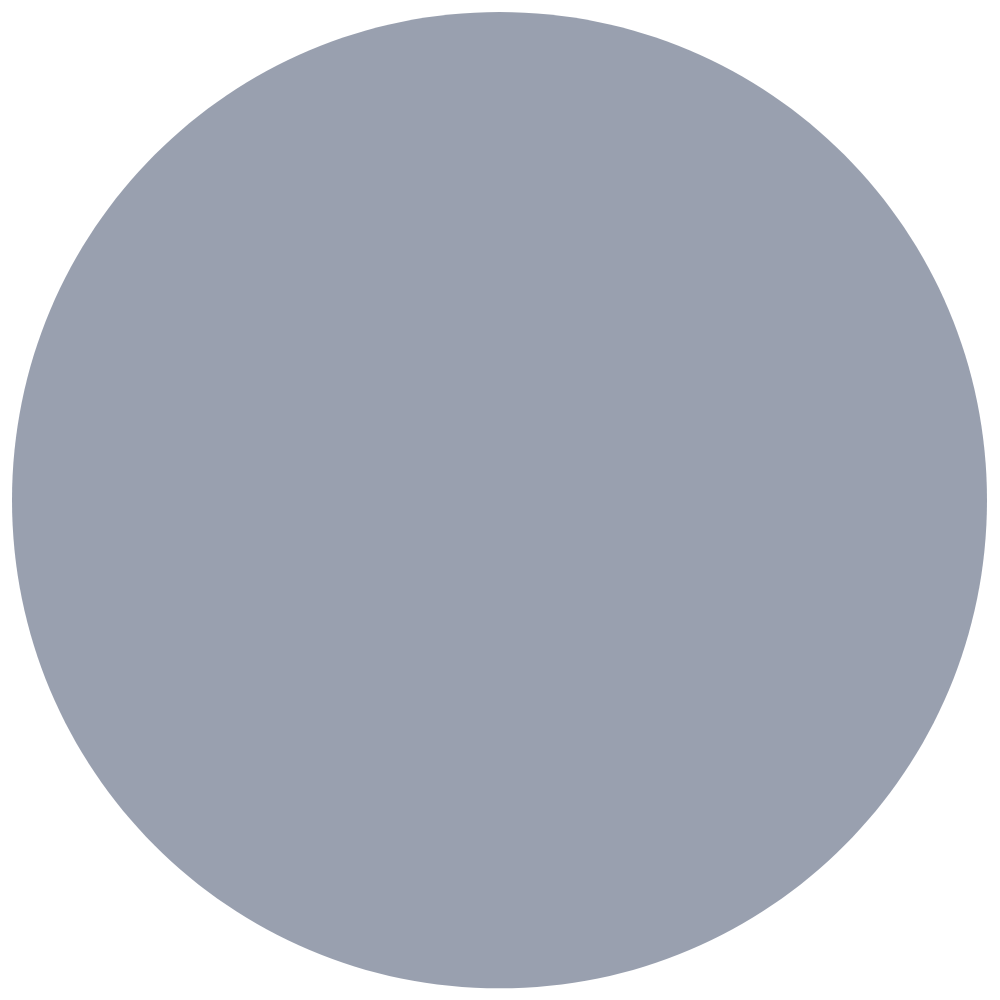
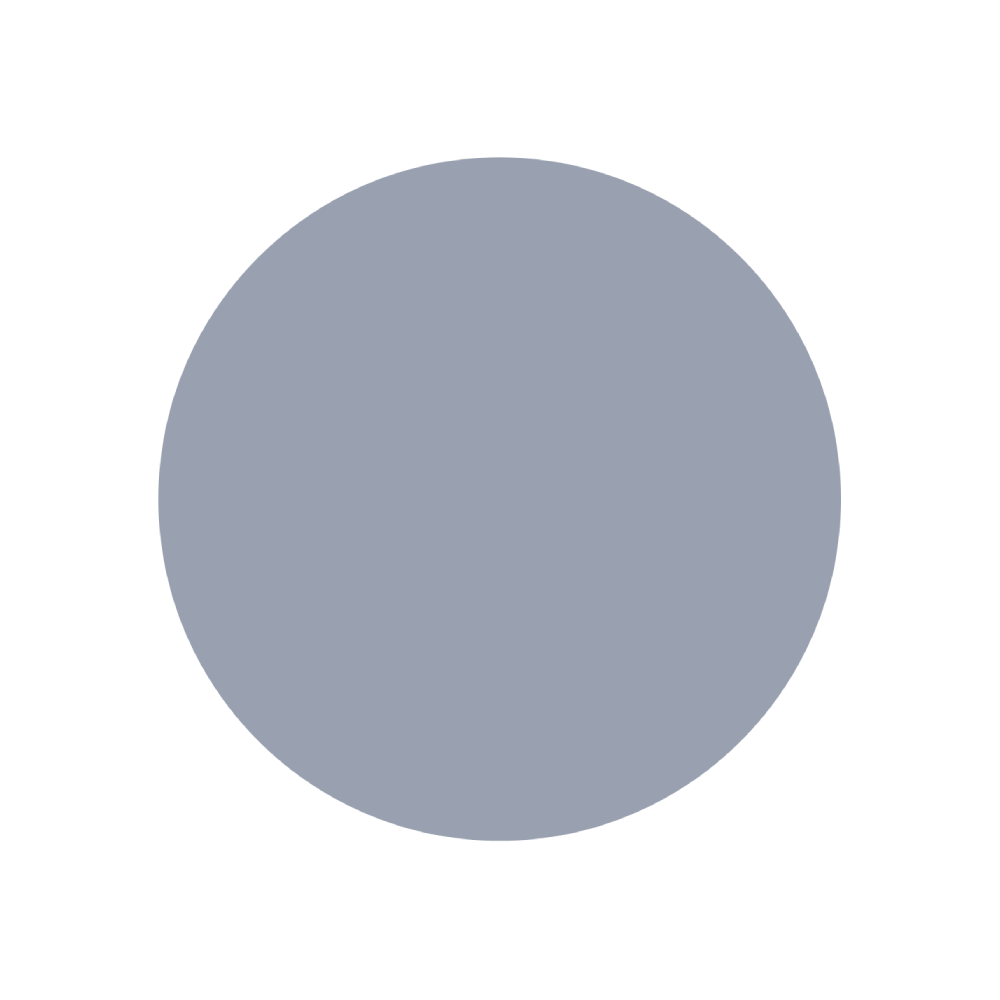
Some minor visual improvements

diff --git a/desktop/indicator.py b/desktop/indicator.py
@@ -239,10 +239,10 @@ class TrayApplication:
         self.exit_action = QAction(self.ICON_CLOSE, "Exit")
         self.exit_action.triggered.connect(self.quit)
 
-        self.disable_action = QAction(self.ICON_DEACTIVE, "Disconnect")
+        self.disable_action = QAction(self.ICON_ACTIVE, "Disconnect")
         self.disable_action.triggered.connect(self.disable)
 
-        self.enable_action = QAction(self.ICON_ACTIVE, "Connect")
+        self.enable_action = QAction(self.ICON_DEACTIVE, "Connect")
         self.enable_action.triggered.connect(self.enable)
 
         self.enable_auto_action = QAction(self.OFF_ICON, "Enable Auto-Reconnect") 
